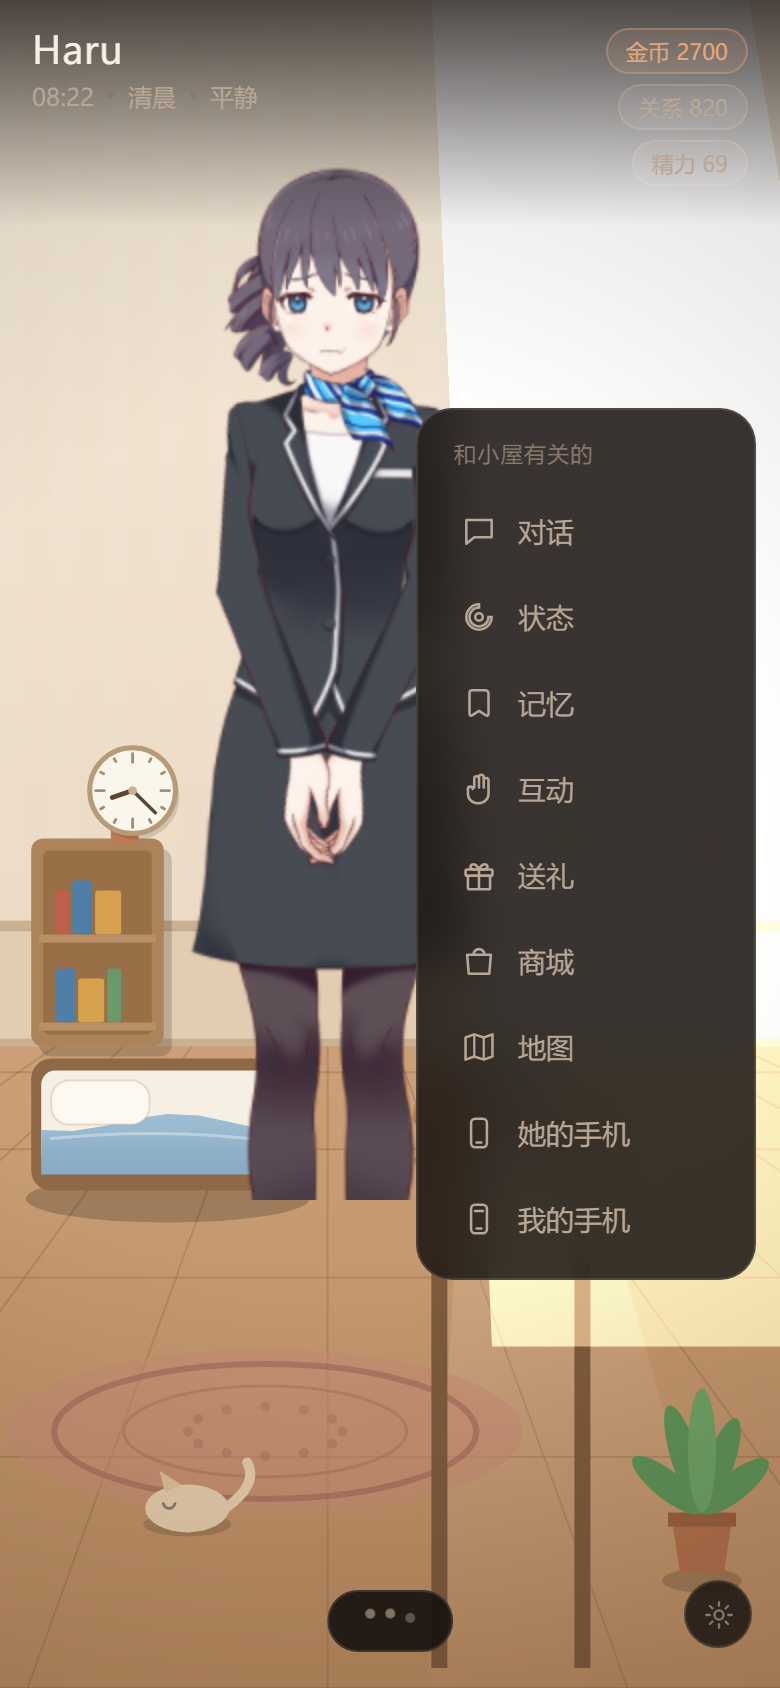
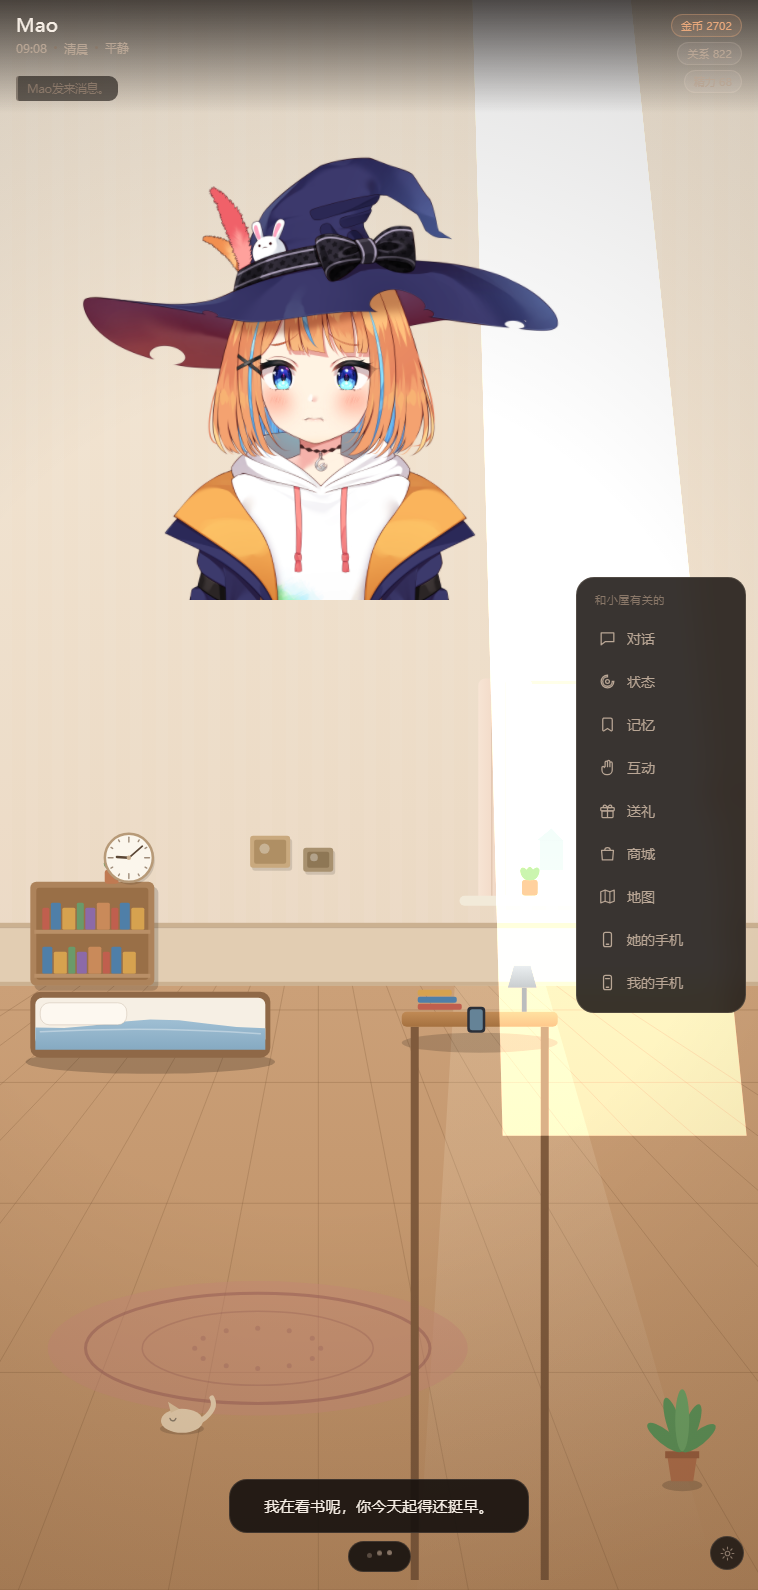
docs: 截图换成 Mao 并统一显示尺寸；解谜改写为高自由度玩法介绍

diff --git a/README.md b/README.md
@@ -35,20 +35,13 @@ Eirunest 想换个做法——**让 TA 真的在生活**。
 - **真的碰到 TA。** 可以摸头、牵手、靠一会儿。TA 会按当下的心情和你们之间的关系，给出不一样的回应。
 - **一起做点什么。** 一起看书、打游戏、做饭、散步。
 - **探索这个世界。** 镇上住着不少人——工坊里的女巫阿姨、旧书店的店主、车站的商贩……都可以去认识。往后还会有更多人和地方。
-
-## 自由解谜
-
-除了过日子，这个世界还埋着一些谜题。
-
-线索散在日常里——一句随口的话、一件看着不相干的东西，都可能有用。系统不会替你串联，怎么想、从哪条入手、要不要拉上 TA 一起，全看你自己。
-
-没有标准答案，也不催你。想不通就先放着，过阵子回头看，往往就对上了。
+- **解谜。** 这个世界里埋着一些没人会告诉你的谜题。想知道一件事，路子不止一条——可以直接问 TA，可以翻 TA 发过的朋友圈、日记和照片，可以去镇上找认识的人打听，也可以让 TA 替你去问；每条路给出的信息都不一样，也可能走到死胡同，换个路子再试。线索散在日常里，系统不替你串联，从哪条入手、要不要拉上 TA 一起，全看你自己。没有标准答案，想不通就先放着，过阵子回头看。
 
 ## 界面
 
 | 手机 · 微信 | 小屋里的所有入口 |
 |---|---|
-| ![微信](docs/screenshot-her-wechat.png) | ![功能入口](docs/screenshot-menu.png) |
+| <img src="docs/screenshot-her-wechat.png" alt="微信聊天" height="640"> | <img src="docs/screenshot-menu.png" alt="小屋功能入口" height="640"> |
 
 ## 它是怎么做到的
 
